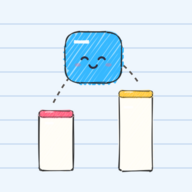
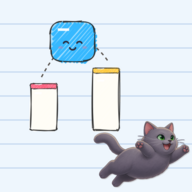
풍년게임즈 10종: 앱 아이콘에 풍년이(게임별 포즈) v15
Claude-Session: https://claude.ai/code/session_01HhH72FoY4qZfHEkX7CFfCs

Changed region(s): [[0.25, 0.0938, 1.0, 1.0], [0.1562, 0.3438, 0.4062, 0.9062], [0.6875, 0.4062, 0.7188, 0.4375]]

diff --git a/play/index.html b/play/index.html
@@ -30,9 +30,9 @@ border-radius:18px 14px 20px 12px;padding:10px 14px 10px 10px;margin:0 0 12px;bo
 .note{font-size:19px;background:#fff7d6;border:2px dashed #d9b84a;border-radius:14px;padding:12px 14px;margin:22px 0 0;line-height:1.35}
 .note b{font-size:21px}
 </style></head><body><main>
-<img class="cat" src="pung-cat.png?v=14" alt="풍년이"><h1><span>풍년게임즈</span> 10종</h1>
+<img class="cat" src="pung-cat.png?v=15" alt="풍년이"><h1><span>풍년게임즈</span> 10종</h1>
 <p class="sub">눌러서 바로 플레이! 소리 켜면 더 재밌어요 🔊</p>
-<a class="card" href="jellystack/?v=14"><img src="jellystack/icon.png?v=14" alt=""><span><b>젤리풍</b><small>톡! 말랑 젤리 탑 쌓기</small></span><i>▶</i></a><a class="card" href="blockpung/?v=14"><img src="blockpung/icon.png?v=14" alt=""><span><b>블락풍</b><small>젤리 블록 끼워 줄 지우기</small></span><i>▶</i></a><a class="card" href="hapchyeoten/?v=14"><img src="hapchyeoten/icon.png?v=14" alt=""><span><b>열풍</b><small>이어서 합이 10이면 톡</small></span><i>▶</i></a><a class="card" href="ddeokpung/?v=14"><img src="ddeokpung/icon.png?v=14" alt=""><span><b>떡풍</b><small>떨어뜨려 떡 합체</small></span><i>▶</i></a><a class="card" href="dotpung/?v=14"><img src="dotpung/icon.png?v=14" alt=""><span><b>도트풍</b><small>젤리 슈터로 도트 그림 지우기</small></span><i>▶</i></a><a class="card" href="bangulpung/?v=14"><img src="bangulpung/icon.png?v=14" alt=""><span><b>방울풍</b><small>쏘아서 같은 색 방울 펑</small></span><i>▶</i></a><a class="card" href="taengtaengpung/?v=14"><img src="taengtaengpung/icon.png?v=14" alt=""><span><b>탱탱풍</b><small>공을 줄줄이 쏴서 블록 깨기</small></span><i>▶</i></a><a class="card" href="jumppung/?v=14"><img src="jumppung/icon.png?v=14" alt=""><span><b>점프풍</b><small>톡 한 칸, 꾹 두 칸 점프</small></span><i>▶</i></a><a class="card" href="miklpung/?v=14"><img src="miklpung/icon.png?v=14" alt=""><span><b>미끌풍</b><small>밀어서 떨어뜨려 줄 채우기</small></span><i>▶</i></a><a class="card" href="omokpung/?v=14"><img src="omokpung/icon.png?v=14" alt=""><span><b>오목풍</b><small>컴퓨터 젤리와 오목 한 판</small></span><i>▶</i></a>
+<a class="card" href="jellystack/?v=15"><img src="jellystack/icon.png?v=15" alt=""><span><b>젤리풍</b><small>톡! 말랑 젤리 탑 쌓기</small></span><i>▶</i></a><a class="card" href="blockpung/?v=15"><img src="blockpung/icon.png?v=15" alt=""><span><b>블락풍</b><small>젤리 블록 끼워 줄 지우기</small></span><i>▶</i></a><a class="card" href="hapchyeoten/?v=15"><img src="hapchyeoten/icon.png?v=15" alt=""><span><b>열풍</b><small>이어서 합이 10이면 톡</small></span><i>▶</i></a><a class="card" href="ddeokpung/?v=15"><img src="ddeokpung/icon.png?v=15" alt=""><span><b>떡풍</b><small>떨어뜨려 떡 합체</small></span><i>▶</i></a><a class="card" href="dotpung/?v=15"><img src="dotpung/icon.png?v=15" alt=""><span><b>도트풍</b><small>젤리 슈터로 도트 그림 지우기</small></span><i>▶</i></a><a class="card" href="bangulpung/?v=15"><img src="bangulpung/icon.png?v=15" alt=""><span><b>방울풍</b><small>쏘아서 같은 색 방울 펑</small></span><i>▶</i></a><a class="card" href="taengtaengpung/?v=15"><img src="taengtaengpung/icon.png?v=15" alt=""><span><b>탱탱풍</b><small>공을 줄줄이 쏴서 블록 깨기</small></span><i>▶</i></a><a class="card" href="jumppung/?v=15"><img src="jumppung/icon.png?v=15" alt=""><span><b>점프풍</b><small>톡 한 칸, 꾹 두 칸 점프</small></span><i>▶</i></a><a class="card" href="miklpung/?v=15"><img src="miklpung/icon.png?v=15" alt=""><span><b>미끌풍</b><small>밀어서 떨어뜨려 줄 채우기</small></span><i>▶</i></a><a class="card" href="omokpung/?v=15"><img src="omokpung/icon.png?v=15" alt=""><span><b>오목풍</b><small>컴퓨터 젤리와 오목 한 판</small></span><i>▶</i></a>
 <div class="note"><b>✏ 해 보고 알려 주세요</b><br>
 1. 제일 재밌었던 게임 하나, 바로 끈 게임 하나는?<br>
 2. 규칙이 헷갈리거나 답답했던 순간이 있었나요?<br>
